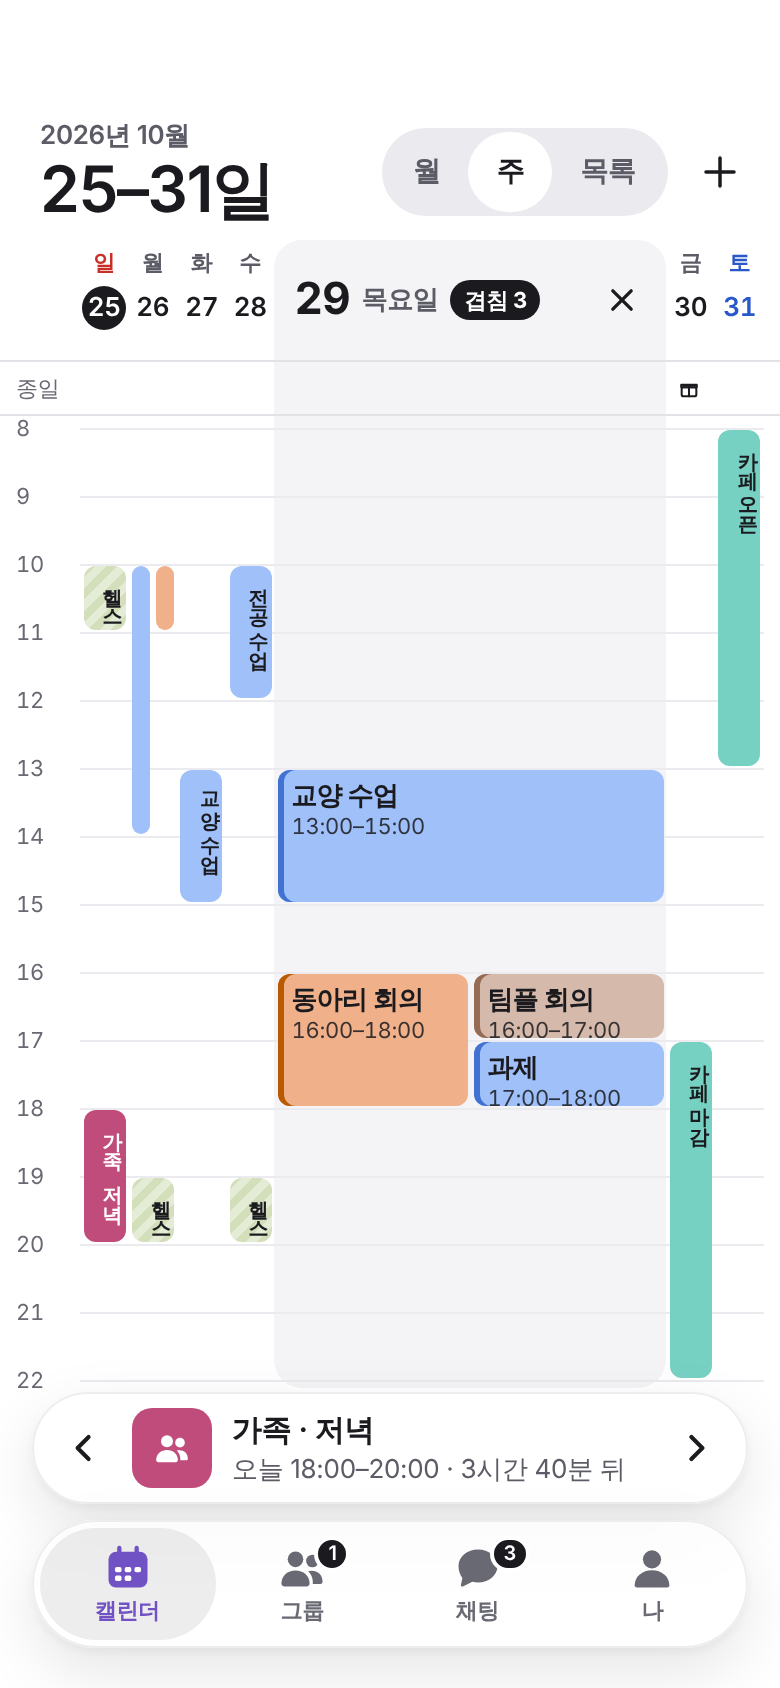
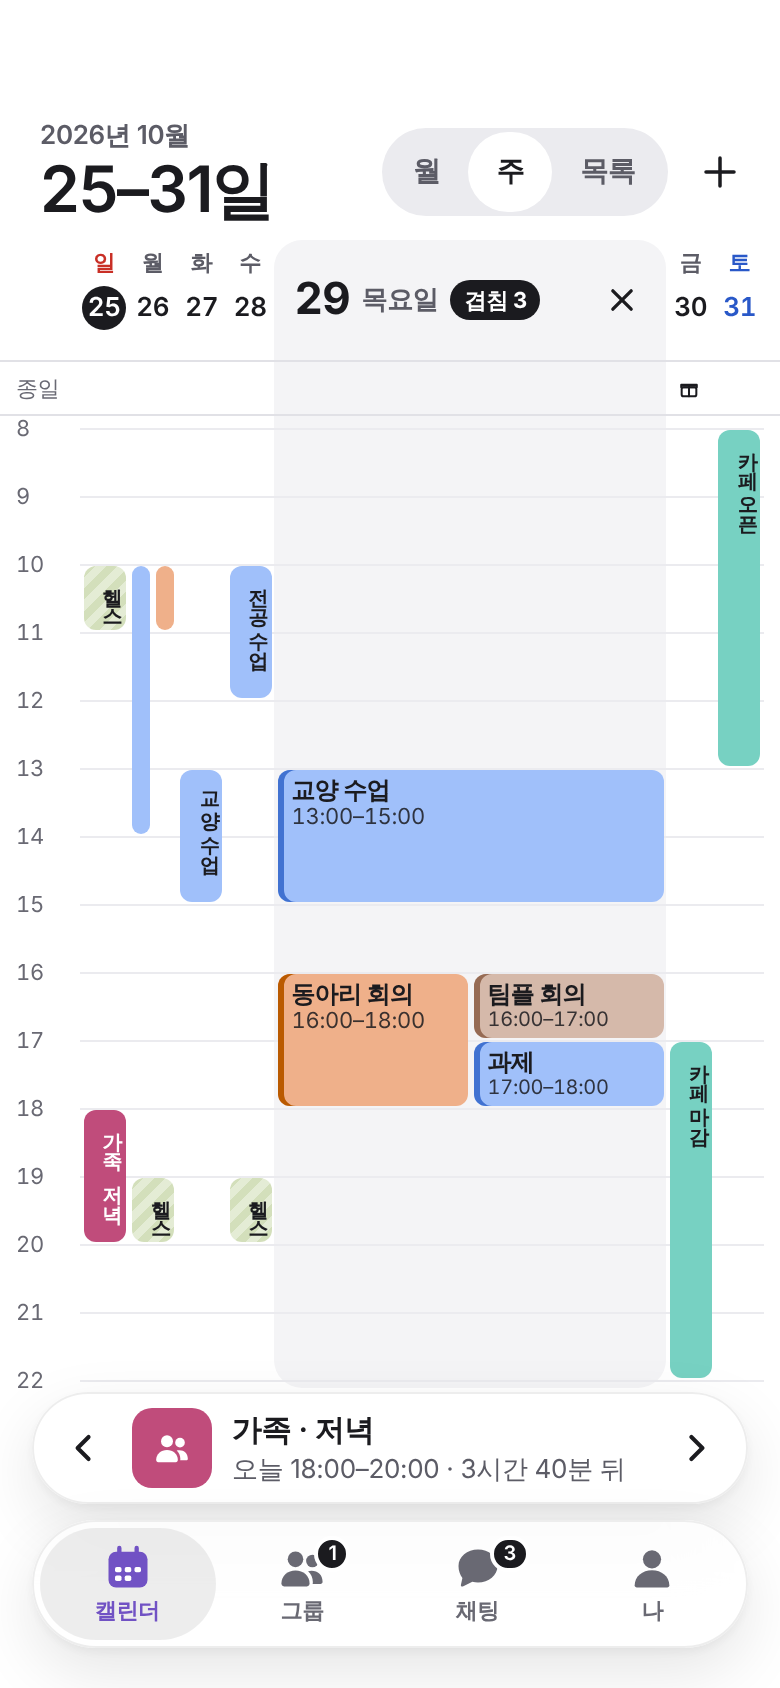
docs(design): keep both lines of a one-hour card in the focused day
Claude-Session: https://claude.ai/code/session_0132zdS6N6MJFEgcRXTttwBV

Changed region(s): [[0.6154, 0.5853, 0.8, 0.6777], [0.3692, 0.5853, 0.5538, 0.6161], [0.3692, 0.4621, 0.5538, 0.4929]]

diff --git a/docs/design/boards/WeekOverlap.dc.html b/docs/design/boards/WeekOverlap.dc.html
@@ -67,9 +67,9 @@ button{font:inherit;letter-spacing:inherit;color:inherit}
 </sc-for>
 <sc-for list="{{cards}}" as="e" hint-placeholder-count="10">
 <div style="position: absolute; left: {{e.x}}px; top: {{e.y}}px; width: {{e.w}}px; height: {{e.h}}px">
-<a href="Editor.dc.html" aria-label="{{e.label}}" style="position: absolute; inset: 0; box-sizing: border-box; padding: {{e.pad}}; border-radius: 6px; background: {{e.bg}}; box-shadow: {{e.edge}}; color: {{e.fg}}; overflow: hidden; display: flex; flex-direction: {{e.dir}}; gap: 1px; writing-mode: {{e.wm}}">
+<a href="Editor.dc.html" aria-label="{{e.label}}" style="position: absolute; inset: 0; box-sizing: border-box; padding: {{e.pad}}; border-radius: 6px; background: {{e.bg}}; box-shadow: {{e.edge}}; color: {{e.fg}}; overflow: hidden; display: flex; flex-direction: {{e.dir}}; gap: {{e.gap}}px; writing-mode: {{e.wm}}">
 <span style="font-size: {{e.tf}}px; font-weight: 600; line-height: {{e.lh}}px; letter-spacing: -0.03em; overflow-wrap: normal">{{e.t}}</span>
-<span style="font-size: 11px; line-height: 13px; font-variant-numeric: tabular-nums; opacity: 0.85">{{e.time}}</span>
+<span style="font-size: {{e.mf}}px; line-height: {{e.mlh}}px; font-variant-numeric: tabular-nums; opacity: 0.85">{{e.time}}</span>
 </a>
 <sc-for list="{{e.ribbons}}" as="r" hint-placeholder-count="0">
 <button type="button" onClick="{{e.open}}" tabindex="-1" aria-hidden="true" style="position: absolute; right: {{r.right}}px; top: {{r.top}}px; width: 4px; height: {{r.h}}px; padding: 0; border: none; border-radius: 2px; background: {{r.c}}; cursor: pointer"></button>
@@ -214,9 +214,11 @@ class Component extends DCLogic {
               y: (e.s - H0) * PX + 1, h: (e.e - e.s) * PX - 2,
               bg: e.bg, fg: e.fg, t: showText ? e.t : '',
               time: wide ? hm(e.s) + '–' + hm(e.e) : (!narrow && e.e - e.s >= 2 ? hm(e.s) : ''),
-              tf: wide ? 13 : narrow ? 10 : 11, lh: wide ? 16 : narrow ? 11 : 13,
+              // A one-hour card in the focused day is 32 high: 3 + 14 + 12 + 3 keeps both lines in it.
+              tf: wide ? 12 : narrow ? 10 : 11, lh: wide ? 14 : narrow ? 11 : 13,
+              mf: wide && e.e - e.s <= 1 ? 10 : 11, mlh: wide && e.e - e.s <= 1 ? 12 : 13, gap: wide ? 0 : 1,
               wm: narrow ? 'vertical-rl' : 'horizontal-tb', dir: 'column',
-              pad: narrow ? '4px 2px' : wide ? '5px 7px' : '3px 4px',
+              pad: narrow ? '4px 2px' : wide ? '3px 7px' : '3px 4px',
               edge: wide ? 'inset 3px 0 0 ' + e.c : 'none',
               label: dayName(d) + ' ' + spoken(e),
               ribbons: [], hasMore: false,
@@ -235,7 +237,7 @@ class Component extends DCLogic {
           x: (x0 + 1.5).toFixed(1), w: (w - 3).toFixed(1), y, h,
           // The time shows only when the card is tall enough to keep it clear of "+n"; the focus shows it in full.
           bg: rep.bg, fg: rep.fg, t: rep.t, time: span >= 3 ? hm(rep.s) : '',
-          tf: 11, lh: 13, wm: 'horizontal-tb', dir: 'column',
+          tf: 11, lh: 13, mf: 11, mlh: 13, gap: 1, wm: 'horizontal-tb', dir: 'column',
           pad: '3px ' + (3 + n * 6) + 'px 3px 4px', edge: 'none',
           label: dayName(d) + ' ' + spoken(rep) + ', 겹치는 일정 ' + others.length + '개 더',
           ribbons: others.map((e, i) => ({

diff --git a/docs/design/m1.md b/docs/design/m1.md
@@ -222,7 +222,7 @@ flowchart TD
 | 구성 | 머리글: 연·월(13) + "25–31일"(32) + 세그먼트 → 요일 줄(날짜 원) → 종일 줄(생일, 종일 일정) → 시간 축 8시부터(1시간 48, 스크롤해서 0–24시) → 일정 블록(모서리 8, 캘린더 색 2단계, 왼쪽 2pt 진한 선, 제목 12 · 600 + 시각 11) → 다음 할 일 막대, 탭 막대 |
 | 동작 | 빈 칸 길게 누르기 → 그 시각으로 빠른 입력. 블록 탭 → 편집. 대표 일정의 "+n"이나 리본 탭 → 그 날의 열 포커스. 좌우 밀기 → 주 이동(열 포커스는 닫힘) |
 | 상태 | 현재 시각 빨간 선 + 왼쪽 점. 겹치는 일정(결정 45): 한 날 칸에서 서로 이어서 겹치는 일정들(둘 이상, 끝과 시작이 맞닿기만 하면 겹침 아님)은 **가장 긴 일정이 대표 카드**로 그 시간 전체를 덮고, 나머지는 카드 오른쪽 가장자리의 **리본**(폭 4, 캘린더 진한 색)으로 각자의 시간만큼 그림. 서로 겹치지 않는 나머지는 같은 줄의 리본에 위아래로 놓임(16–17시와 17–18시는 한 줄). 카드 왼쪽 아래에 먹색 알약 "+n"(남은 일정 수). 대표 카드의 제목은 카드 색과 글자색 그대로, 시각은 카드가 3시간 이상일 때만 보임([10–14시와 10–11시, 16–18시 셋](screens/m1/07-week--overlap@2x.png)). 대표가 같은 길이로 여럿이면 코어 순서(시작 순)의 앞. 겹치지 않는 일정은 지금처럼 칸 폭 그대로 |
-| 열 포커스 | "+n"이나 리본을 누르면 그 날 열이 제자리에서 넓어지고(196), 나머지 여섯 날은 좁은 띠로 남아 주의 맥락을 지킴. 바텀시트를 쓰지 않음. 넓힌 열: 회색 바탕(`groupedBackground`, 모서리 14)이 요일 줄부터 시간 축 끝까지, 요일 줄 자리에 날짜(22 · 700) + "월요일"(13) + 먹색 알약 "겹침 2"(그날 겹치는 일정 수) + 닫기(×). 겹치는 일정은 나란히 열로 나눠 제목(13 · 600)과 시각 범위 "10:00–14:00"을 가로로 읽게 하고, 카드 왼쪽에 캘린더 진한 색 선 3. 겹치지 않는 일정은 열 폭 그대로. 좁은 날: 요일·날짜는 작게(11·13), 일정은 세로 글자(10)로, 겹친 일정은 글자 없이 색 막대만. × 또는 주 이동으로 닫힘. 넓힌 열의 일정 탭 → 편집([월요일](screens/m1/07-week--overlap-focus@2x.png), [목요일 셋](screens/m1/07-week--overlap-focus-three@2x.png)). 접근성: 대표 카드는 "10월 26일 월요일 전공 수업, 10:00부터 14:00까지, 겹치는 일정 1개 더", "+n"은 버튼 "… 겹치는 일정 2개 펼치기", 리본은 따로 읽지 않음. 열이 넓어지면 날짜 제목으로 초점을 옮김 |
+| 열 포커스 | "+n"이나 리본을 누르면 그 날 열이 제자리에서 넓어지고(196), 나머지 여섯 날은 좁은 띠로 남아 주의 맥락을 지킴. 바텀시트를 쓰지 않음. 넓힌 열: 회색 바탕(`groupedBackground`, 모서리 14)이 요일 줄부터 시간 축 끝까지, 요일 줄 자리에 날짜(22 · 700) + "월요일"(13) + 먹색 알약 "겹침 2"(그날 겹치는 일정 수) + 닫기(×). 겹치는 일정은 나란히 열로 나눠 제목(12 · 600)과 시각 범위 "10:00–14:00"(11, 한 시간짜리 카드는 10)을 가로로 읽게 하고, 한 시간 카드(높이 32)에도 두 줄이 다 들어가며, 카드 왼쪽에 캘린더 진한 색 선 3. 겹치지 않는 일정은 열 폭 그대로. 좁은 날: 요일·날짜는 작게(11·13), 일정은 세로 글자(10)로, 겹친 일정은 글자 없이 색 막대만. × 또는 주 이동으로 닫힘. 넓힌 열의 일정 탭 → 편집([월요일](screens/m1/07-week--overlap-focus@2x.png), [목요일 셋](screens/m1/07-week--overlap-focus-three@2x.png)). 접근성: 대표 카드는 "10월 26일 월요일 전공 수업, 10:00부터 14:00까지, 겹치는 일정 1개 더", "+n"은 버튼 "… 겹치는 일정 2개 펼치기", 리본은 따로 읽지 않음. 열이 넓어지면 날짜 제목으로 초점을 옮김 |
 | 코어 | `calendar.week(start)` |
 
 ### 8. 목록 보기
